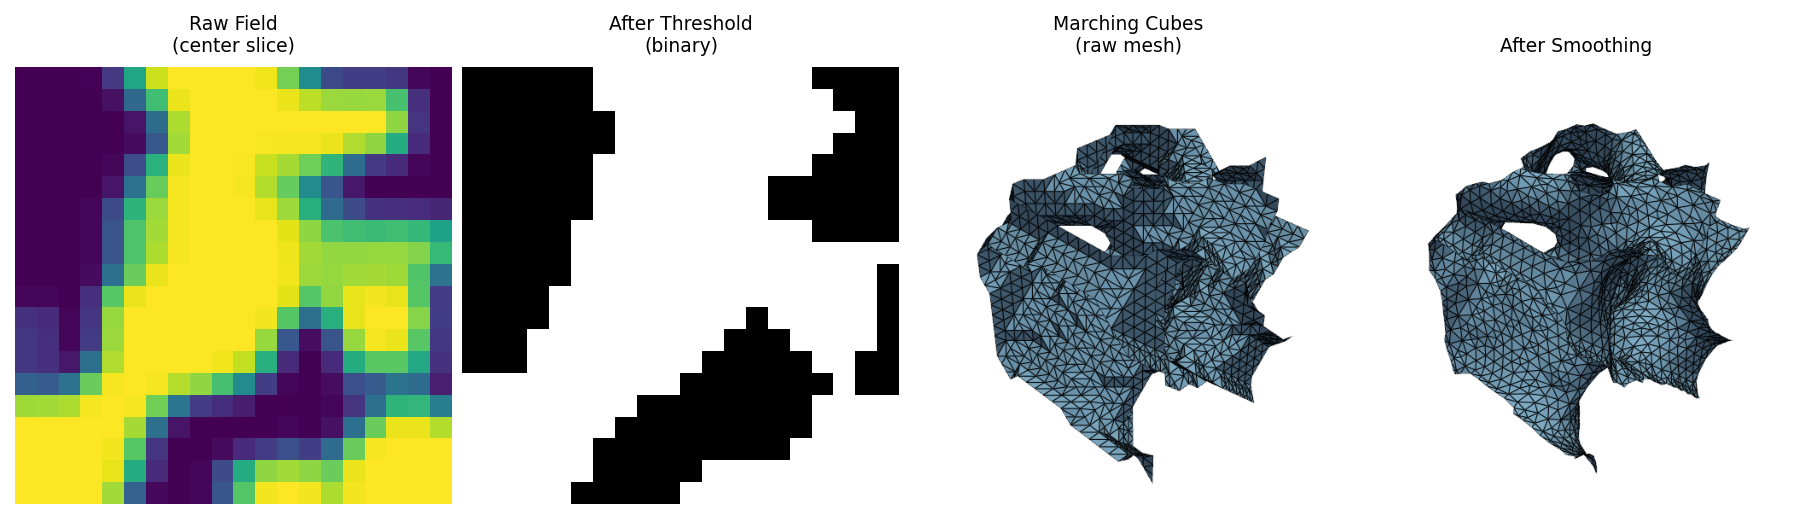
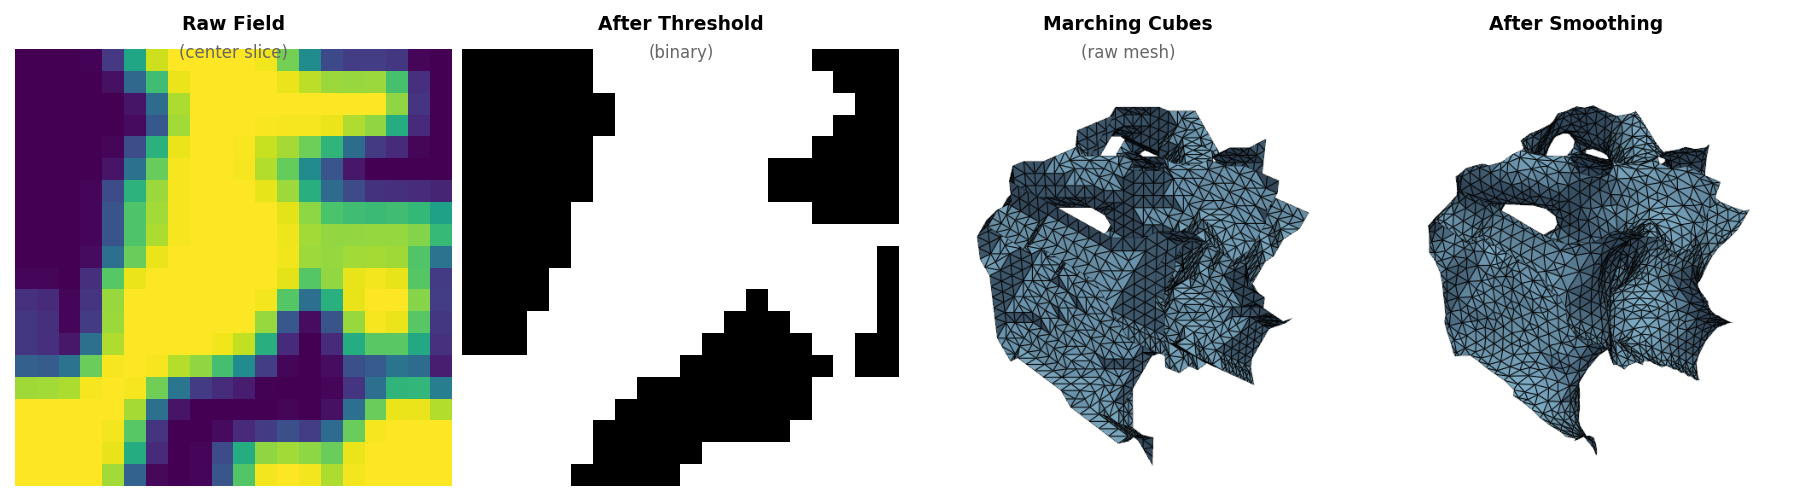
fix: top-align pipeline stages titles with separate subtitle line

diff --git a/scripts/generate_doc_images.py b/scripts/generate_doc_images.py
@@ -156,8 +156,9 @@ def gen_pipeline_stages() -> None:
     state_smo = smooth(state_ext)
 
     fig, axes = plt.subplots(1, 4, figsize=(12, 3.8))
-    titles = ["Raw Field\n(center slice)", "After Threshold\n(binary)",
-              "Marching Cubes\n(raw mesh)", "After Smoothing"]
+    # Main titles (line 1) and subtitles (line 2, parenthetical)
+    main_titles = ["Raw Field", "After Threshold", "Marching Cubes", "After Smoothing"]
+    subtitles = ["(center slice)", "(binary)", "(raw mesh)", ""]
 
     # Panel 1: Center slice of raw density field
     field = state.field
@@ -183,11 +184,16 @@ def gen_pipeline_stages() -> None:
     fig.patch.set_facecolor(BG_COLOR)
     fig.tight_layout(pad=0.5)
 
-    # Add titles at a uniform y-position so they are top-aligned
-    for ax, title in zip(axes, titles, strict=True):
+    # Place titles at uniform y — main title top-aligned, subtitle below
+    for ax, main, sub in zip(axes, main_titles, subtitles, strict=True):
         bbox = ax.get_position()
-        fig.text(bbox.x0 + bbox.width / 2, bbox.y1 + 0.02, title,
-                 ha="center", va="bottom", fontsize=9)
+        cx = bbox.x0 + bbox.width / 2
+        y_main = bbox.y1 + 0.06
+        fig.text(cx, y_main, main, ha="center", va="top", fontsize=9,
+                 fontweight="bold")
+        if sub:
+            fig.text(cx, y_main - 0.05, sub, ha="center", va="top",
+                     fontsize=8, color="#666666")
 
     fig.savefig(OUTPUT_DIR / "pipeline-stages.png", dpi=DPI, bbox_inches="tight",
                 facecolor=BG_COLOR)
